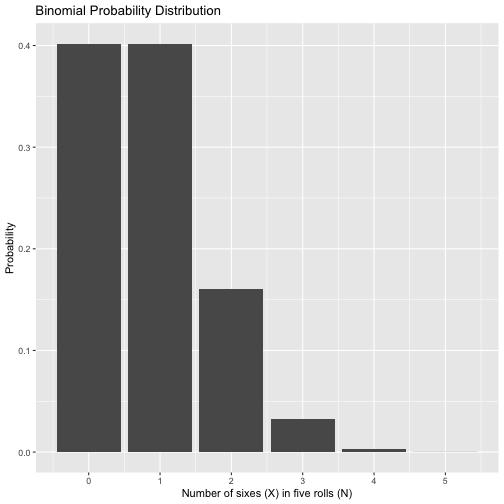
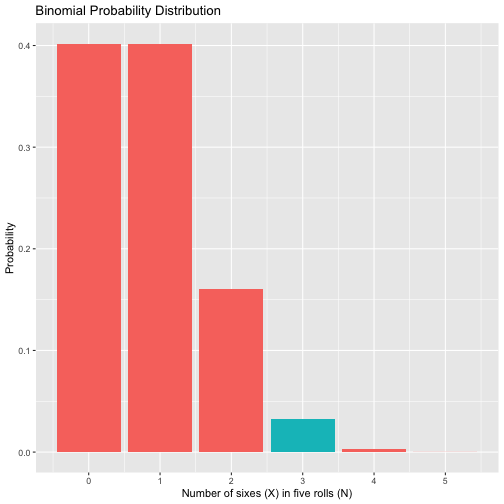
finish lecture 7

Changed region(s): [[0.0893, 0.0893, 0.6845, 0.9226], [0.6845, 0.8929, 0.8036, 0.9226]]

diff --git a/lectures/7-binomial.html b/lectures/7-binomial.html
@@ -17,20 +17,41 @@ class: center, middle, inverse, title-slide
 ---
 
 
+### Student Experience Survey
+
+Available on DuckWeb until 6pm on October 25. 
 
 
-The binomial distribution is the theoretical probability distribution appropriate when modeling the expected outcome, X, of N trials (or event sequences) that have the following characteristics:
+---
 
-- The outcome on every trial is binary (also called a Bernoulli trial)
-- The probability of the target outcome (usually called a “success”) is the same for all N trials (“with replacement” might be necessary)
+
+
+The **binomial distribution** is the theoretical probability distribution appropriate when modeling the expected outcome, X, of N trials (or event sequences) that have the following characteristics:
+
+--
+- The outcome on every trial is binary 
+
+    - also called a **Bernoulli trial**
+
+--
+
+- The probability of the target outcome (usually called a “success”) is the same for all N trials 
+
+    - “with replacement” might be necessary
+
+--
+
 - The trials are independent
+
+--
+
 - The number of trials is fixed
 
 ---
 
 
 
-If these assumptions hold then X is a binomial random variable representing the expected number of successes over N trials, with expected success on each trial of q.
+If these assumptions hold then X is a binomial random variable representing the expected number of successes over N trials, with expected success on each trial of `\(\theta\)` .
 
 &lt;p&gt;&amp;nbsp;&lt;/p&gt;
 
@@ -66,9 +87,9 @@ $$ P(X|\theta,N) = \frac{N!}{X!(N-X)!}p^X(q)^{N-X}$$
 
 `\(\mathbf{P(X|\theta,N)}\)` is a conditional probability: the probability of X given `\(\theta\)` and `\(N\)`.
 
-- X is the number of successful trials over N independent trials, with the probability of success on any trial equal to q.
+- X is the number of successful trials over N independent trials, with the probability of success on any trial equal to `\(\theta\)`.
 
-- q and N are parameters of the binomial distribution.
+- `\(\theta\)` and N are parameters of the binomial distribution.
 
 ---
 
@@ -83,18 +104,29 @@ $$ P(X|\theta,N) = \frac{N!}{X!(N-X)!}p^X(q)^{N-X}$$
 
 Note that this form of the rule assumes *independent events*.
 
-???
+---
+For example, let's examine a sequence of 5 independent rolls of a die:
 
-### Write on board
-For example, the sequence of 5 independent rolls of a die: 
-`3 6 6 1 6`
+`3  6  6  1  6`
 
-can be represented in binomial form in the following way if rolling a 6 is a success:
-`Not6 6 6 Not6 6`
+--
+
+
+This can be represented in binomial form. First we have to choose the value that represents "success." Here, we'll use 6. 
+
+`Not6  6  6  Not6  6`
+
+--
+
 The probability of that particular sequence is then:
-*$P(Not6)P(6)P(6)P(Not6)P(6)$ or
-*$P(6)^3P(Not6)^2)$
-*$(\frac{1}{6})^3(\frac{5}{6})^2$
+
+`$$P(Not6)P(6)P(6)P(Not6)P(6)$$`
+
+--
+
+`$$P(6)^3P(Not6)^2 = (\frac{1}{6})^3(\frac{5}{6})^2 = 0.0027$$`
+
+
 
 ---
 
@@ -107,17 +139,69 @@ But a specific sequence of independent outcomes is just one way we could have X 
 
 - We need to know **how many possible ways** we could get X successes in N trials.
 
-The remaining part of the equation (the combination rule from probability theory, XCN), tells us how many different ways that can happen.
+The remaining part of the equation (the combination rule from probability theory, `\(_XC_N\)`), tells us how many different ways that can happen.
 
 `$$\Large \frac{N!}{X!(N-X)!}$$`
 
-???
+---
 
-`$$\frac{5!}{3!(5-3)!} = \frac{5\times4\times3\times2\times1}{3\times2\times1(2\times1)}=10$$`
+Returning to our dice example, how many ways are there to roll a six 3 times out of 5?
 
+--
+
+.pull-left[
+
+`6  6  6  Not6 Not6`
+
+
+
+`6  6  Not6  6 Not6`
+
+
+
+`6  6  Not6  Not6 6`
+
+`6  Not6  6  6  Not6`
+
+`6  Not6  6  Not6  6`
+]
+
+.pull-right[
+
+`6  Not6  Not6  6  6`
+
+`Not6  6  6  6  Not6`
+
+`Not6  6  6  Not6  6`
+
+`Not6  6  Not6  6  6`
+
+`Not6  Not6  6  6  6`
+]
+
+
+--
+
+`$$\large \frac{5!}{3!(5-3)!} = \frac{5\times4\times3\times2\times1}{3\times2\times1(2\times1)}=10$$`
+---
 Putting the pieces together:
 
-`$$P(X = \text{a }6, \text{three times}|\theta_6, N= 5)= \frac{5!}{3!(5-3)!}(\frac{1}{6})^3(\frac{5}{6})^2=.032$$`
+`$$\large P(X = \text{a }6, \text{three times}|\theta_6, N= 5)\\
+= \frac{N!}{X!(N-X)!}\theta^X(1-\theta)^{N-X}\\=
+\frac{5!}{3!(5-3)!}(\frac{1}{6})^3(\frac{5}{6})^2\\
+= (10)(.0032) \\
+=.032$$`
+
+--
+
+A note about notation:
+
+Many texts refer to the probability of success as `\(p\)` and the probability of not success (or failure) as `\(q\)`. 
+
+In some ways, this makes the formula easier to understand:
+
+`$$P(X|p, N)= \frac{N!}{X!(N-X)!}p^Xq^{(N-X)}$$`
+
 ---
 
 What does the Law of Total Probability require to be true?
@@ -126,7 +210,7 @@ What does the Law of Total Probability require to be true?
 
 
 ```r
-data.frame(num = 0:5, p = dbinom(x = 0:5, size = 5, prob = 1/6)) %&gt;% ggplot(aes(x=num, y=p)) + geom_bar(stat="identity") + scale_x_continuous("Number of sixes (X) in five rolls (N)", breaks=c(0:5)) +scale_y_continuous("Probability")+ggtitle("Binomial Probability Distribution")
+data.frame(num = 0:5, p = dbinom(x = 0:5, size = 5, prob = 1/6), three = as.factor(c(0,0,0,1,0,0))) %&gt;% ggplot(aes(x=num, y=p, fill = three)) + geom_bar(stat="identity") + scale_x_continuous("Number of sixes (X) in five rolls (N)", breaks=c(0:5)) +scale_y_continuous("Probability")+ guides(fill = F) + ggtitle("Binomial Probability Distribution")
 ```
 
 ???
@@ -134,11 +218,13 @@ data.frame(num = 0:5, p = dbinom(x = 0:5, size = 5, prob = 1/6)) %&gt;% ggplot(a
 Independent rolls!
 
 ---
+
 Every probability distribution has an **expected value**. 
 
 For the binomial distribution:
 
 `$$E(X) = N\theta$$`
+
 --
 Each probability distribution also has a variance. For the binomial:
 
@@ -163,9 +249,13 @@ Sensible mean = number of arms example
 
 ---
 
+.left-column[
+The mean, .835, does not exist in the sample space, and rounding up to 1 and claiming that to be the most typical outcome is not quite right either. 
+]
+
 ![](7-binomial_files/figure-html/unnamed-chunk-3-1.png)&lt;!-- --&gt;
 
-The mean, .835, does not exist in the sample space, and rounding up to 1 and claiming that to be the most typical outcome is not quite right either. 
+
 
 ---
 
@@ -173,9 +263,13 @@ The **probability mass (density) function** allows us to answer other questions 
 - mass = discrete
 - density = continuous
 
-I might want to know the value in the sample space at or below which a certain proportion of outcomes fall.  "At or below what outcome in the sample space do .75 of the outcomes fall?"  This is a *percentile or quantile* question. 
+--
 
-I might want to know the proportion of outcomes in the sample space that fall at or below a particular outcome. This is a *cumulative proportion* question.
+I might want to know the value in the sample space at or below which a certain proportion of outcomes fall.  "At or below what outcome in the sample space do .75 of the outcomes fall?"  This is a **percentile or quantile** question. 
+
+--
+
+I might want to know the proportion of outcomes in the sample space that fall at or below a particular outcome. This is a **cumulative proportion** question.
 
 ---
 At or below what outcome in the sample space do .75 of the outcomes fall?
@@ -224,7 +318,24 @@ Nearly all of the outcomes expected for guessers fall below the minimum passing 
 
 How likely is it that a guesser would score above the threshold (60%) necessary to pass the class by the most minimal standards?
 
-`$$1-P(X = 23|\theta = .25, N= 40)= \\ 1-\frac{23!}{23!(40-23)!}(.25)^{23}(1-.25)^{17}$$`
+$$P(24|.25, 40) + P(25|.25,40) + P(26|.25,40) + ... + P(40|.25, 40) $$
+
+--
+
+In R, we can calculate the cumulative probability (X or lower), using the `pbinom` function.
+
+
+```r
+pbinom(q = 10, size = 40, prob = .25)
+```
+
+```
+## [1] 0.5839041
+```
+
+--
+
+&lt;!-- `$$1-P(X = 23|\theta = .25, N= 40)= \\ 1-\frac{23!}{23!(40-23)!}(.25)^{23}(1-.25)^{17}$$` --&gt;
 
 ```r
 #Note the use of the Law of Total Probability here
@@ -240,24 +351,34 @@ How likely is it that a guesser would score above the threshold (60%) necessary 
 
 Cumulatively, what proportion of guessers will fall below each score?
 
-![](7-binomial_files/figure-html/unnamed-chunk-8-1.png)&lt;!-- --&gt;
+![](7-binomial_files/figure-html/unnamed-chunk-9-1.png)&lt;!-- --&gt;
 
 ???
 
 Seems safe to assume that, practically speaking, all guessers will fall below the minimally passing score.
 
 ---
-##There’s always a but
+###There’s always a but
 
 But, what assumptions are we making and what consequences will they have?
 
+--
+
 * The outcome on every trial is binary (also called a Bernoulli trial)
+
+--
 
 * The probability of the target outcome (usually called a "success") is the same for all N trials ("with replacement" might be necessary)
 
+--
+
 * The trials are independent `\(P(A\cap B) = P(A|B)P(B)=P(A)P(B)\)`
 
+--
+
 * The number of trials is fixed
+
+--
 
 In probability and statistics, if the assumptions are wrong then inferences based on those assumptions could be wrong too, perhaps seriously so.
 
@@ -269,9 +390,11 @@ We might have viable alternative models:
 
 * **Geometric distribution:**  Used if we are interested in the number of trials required for one "success" to occur 
   * "how many times do I start my computer before it fails to start at all?"
+  
 
 * **Negative binomial distribution:** Used if we are interested in the number of successes in a series of repeated trials until a specified number of failures are seen 
   * "What is the probability that a baseball player will get his 2nd hit on his 4th at-bat?"
+  * "A child won't return from trick or treating until they get 5 full-size candy bars. What is the probability that they will have to visit 34 homes to get this?"
 
 ---
 
@@ -284,7 +407,7 @@ Because of the difficulties in calculating large factorials, there is a large-sa
 ]
 
 
-![](7-binomial_files/figure-html/unnamed-chunk-9-1.png)&lt;!-- --&gt;
+![](7-binomial_files/figure-html/unnamed-chunk-10-1.png)&lt;!-- --&gt;
 
 ---
 

diff --git a/lectures/8-normal.html b/lectures/8-normal.html
@@ -25,7 +25,7 @@ class: center, middle, inverse, title-slide
 * `\(t\)`, `\(F\)`, and `\(\chi^2\)` distributions (briefly, for now)
 
 ---
-The normal distribution ("bell curve" or "Gaussian distribution") is a two-parameter distribution defined by the mean (
+The **normal distribution** ("bell curve" or "Gaussian distribution") is a two-parameter distribution defined by the mean (
 `\(\mu\)`
 ) and standard deviation (
 `\(\sigma\)`
@@ -33,6 +33,17 @@ The normal distribution ("bell curve" or "Gaussian distribution") is a two-param
 
 `$$p(X|\mu, \sigma) = \frac{1}{\sqrt{2\pi\sigma}}exp[-\frac{(X-\mu)^2}{2\sigma^2}]$$`
 `$$X\sim N(\mu,\sigma)$$`
+---
+
+### Expected value
+The expected value of the normal distribution is quite easy.
+
+`$$E(X) = \mu$$`
+
+`$$Var(X) = \sigma^2$$`
+
+
+
 ---
 
 .left-column[

diff --git a/README.html b/README.html
@@ -311,6 +311,9 @@ $(document).ready(function () {
     <li>
       <a href="lectures/6-probability.html">6-Probability</a>
     </li>
+    <li>
+      <a href="lectures/7-binomial.html">7-Binomial</a>
+    </li>
   </ul>
 </li>
 <li class="dropdown">

diff --git a/bonus.html b/bonus.html
@@ -410,6 +410,9 @@ div.tocify {
     <li>
       <a href="lectures/6-probability.html">6-Probability</a>
     </li>
+    <li>
+      <a href="lectures/7-binomial.html">7-Binomial</a>
+    </li>
   </ul>
 </li>
 <li class="dropdown">

diff --git a/homework.html b/homework.html
@@ -410,6 +410,9 @@ div.tocify {
     <li>
       <a href="lectures/6-probability.html">6-Probability</a>
     </li>
+    <li>
+      <a href="lectures/7-binomial.html">7-Binomial</a>
+    </li>
   </ul>
 </li>
 <li class="dropdown">

diff --git a/index.html b/index.html
@@ -411,6 +411,9 @@ div.tocify {
     <li>
       <a href="lectures/6-probability.html">6-Probability</a>
     </li>
+    <li>
+      <a href="lectures/7-binomial.html">7-Binomial</a>
+    </li>
   </ul>
 </li>
 <li class="dropdown">

diff --git a/schedule.html b/schedule.html
@@ -410,6 +410,9 @@ div.tocify {
     <li>
       <a href="lectures/6-probability.html">6-Probability</a>
     </li>
+    <li>
+      <a href="lectures/7-binomial.html">7-Binomial</a>
+    </li>
   </ul>
 </li>
 <li class="dropdown">
